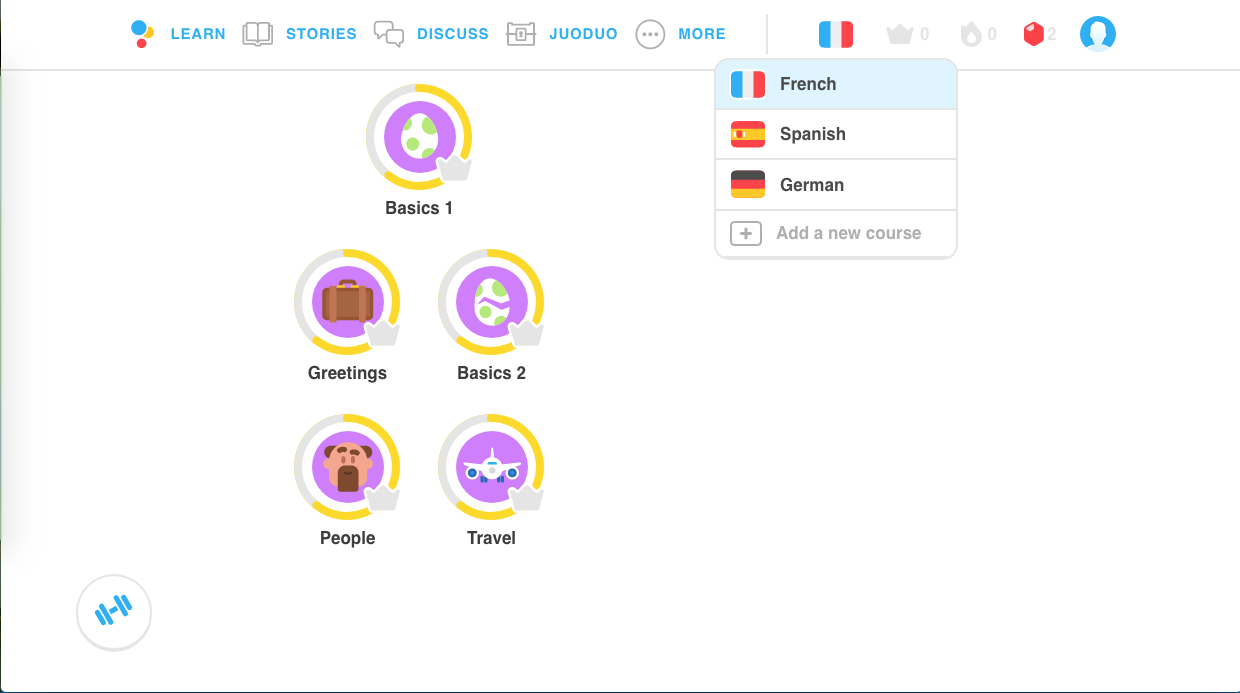
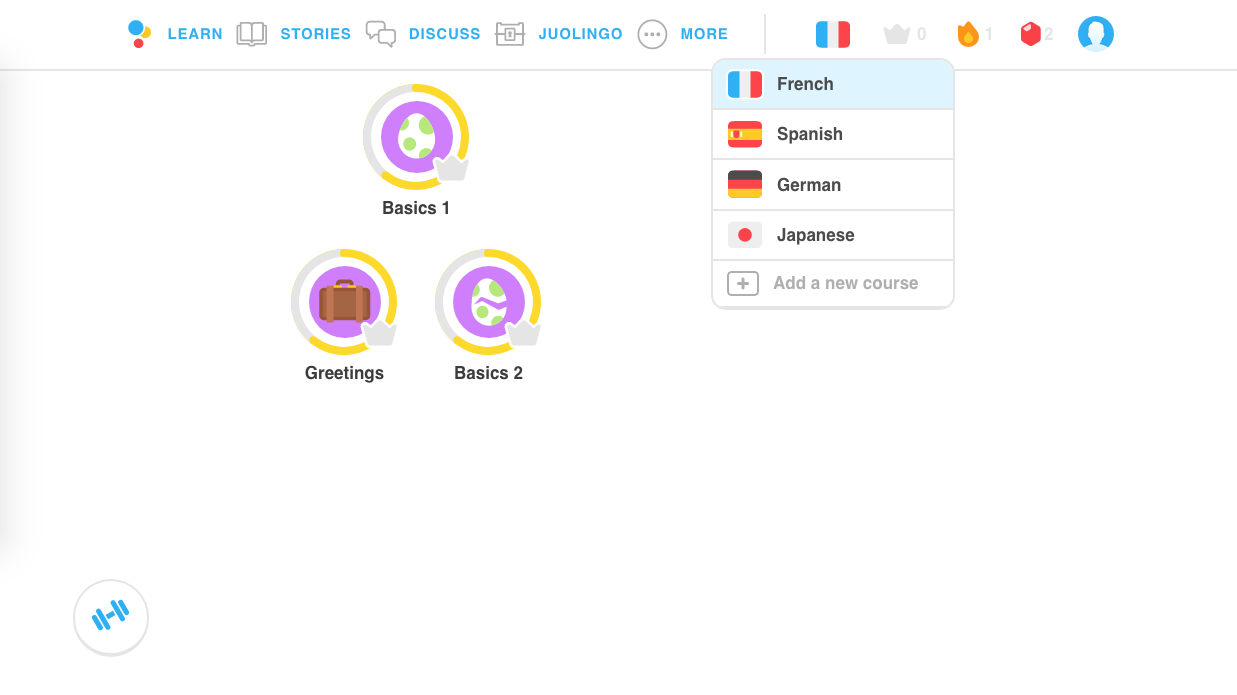
readMe update

diff --git a/README.md b/README.md
@@ -20,7 +20,7 @@ Choose up to four (for now) languages.
 
 ## Dashboard 
 
-Each language comes with five lesson modules. Users are able to switch languages or add courses to their profile from the flag dropdown in the nav bar section. 
+Each language comes with three lesson modules. Users are able to switch languages or add courses to their profile from the flag dropdown in the nav bar section. 
 
 ![Dashboard Image](readmeResources/addLang.png)
 
